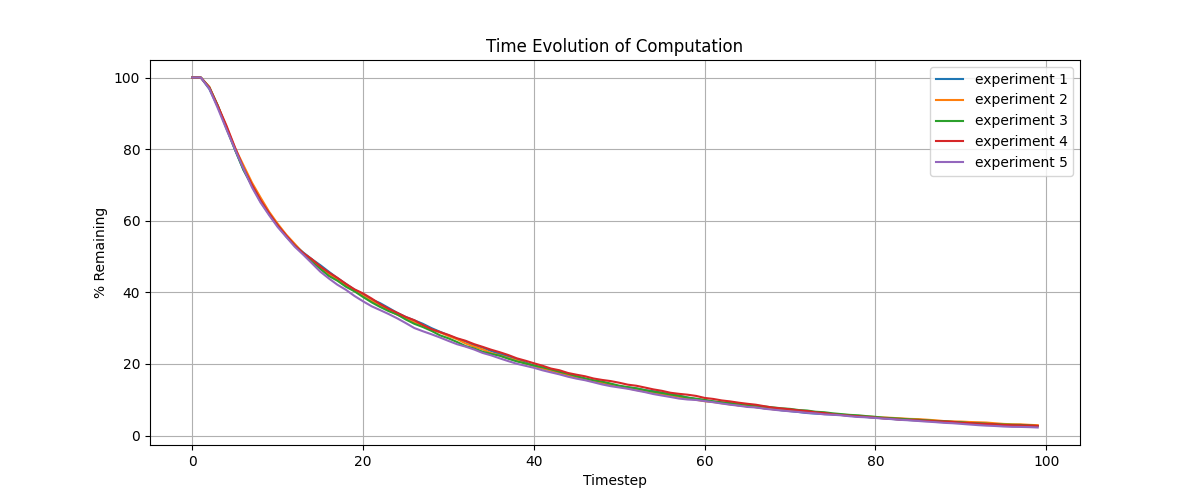
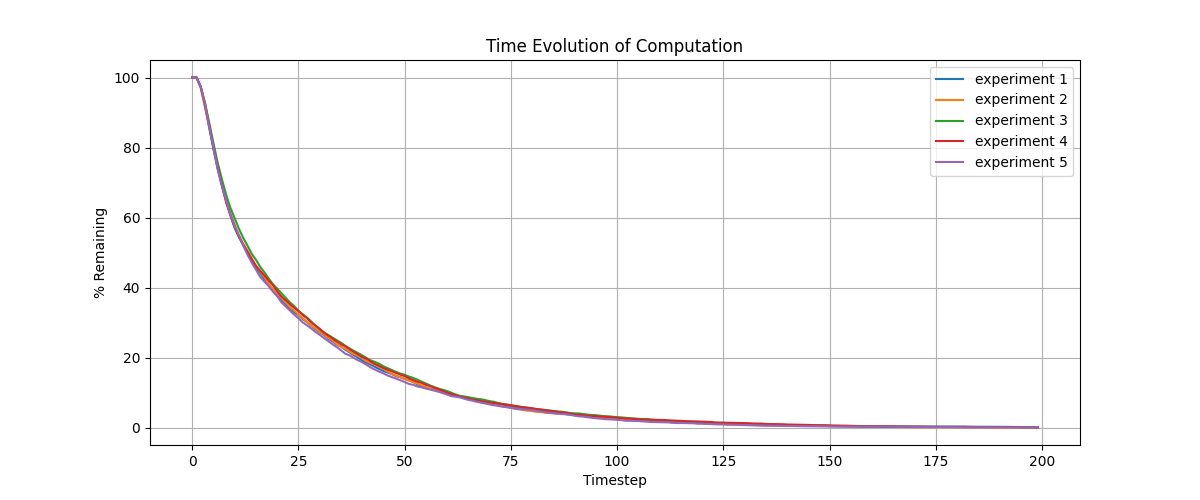
some housekeeping

diff --git a/src/experiments/sdc/bind_replace/__init__.py b/src/experiments/sdc/bind_replace/__init__.py
@@ -61,22 +61,22 @@ class SDCBindReplaceSimulation(Simulation):
                     data["SOLVED"].add(index)
 
 
-def print_results(iters: int, count: int, totals: List[int]) -> None:
+def print_results(iters: int, count: int, data: Dict) -> None:
     print(f"\tResults after {iters} iterations")
     print()
     for i in range(iters):
-        print_result(i, count, totals[i])
+        print(f"\t Iteration: {i + 1}")
+        print_result(count, data["TOTALS"][i])
     print("\n")
 
 
-def print_result(iteration: int, count: int, total: int) -> None:
-    print(f"\t Iteration: {iteration + 1}")
+def print_result(count: int, total: int) -> None:
     print(f"\t     Total: {total}")
     print(f"\tProportion: {(total / count) * 100:.2f}%")
     print()
 
 
-def plot_results(iters: int, total: int, timesteps: int, stats: List[List[int]], field: str, group: str, name: str) -> None:
+def plot_results(iters: int, total: int, timesteps: int, data: Dict, field: str, group: str, name: str) -> None:
     plt.subplots(figsize = (12, 5))
     plt.title("Time Evolution of Computation")
     plt.grid(True)
@@ -84,12 +84,10 @@ def plot_results(iters: int, total: int, timesteps: int, stats: List[List[int]],
     plt.ylabel("% Remaining")
 
     for i in range(iters):
-        y = [((total - count) / total) * 100 for count in stats[i]]
+        y = [((total - count) / total) * 100 for count in data["STATS"][i]]
         x = [timestep for timestep in range(timesteps)]
         plt.plot(x, y, label = f"experiment {i + 1}")
 
     plt.legend()
     plt.savefig(f"./output/experiments/{field}/{group}/{name}/experiment.png")
     plt.close()
-
-

diff --git a/src/experiments/sdc/bind_replace/bitcopy/experiment.py b/src/experiments/sdc/bind_replace/bitcopy/experiment.py
@@ -6,7 +6,7 @@ from experiments.sdc.bind_replace.bitcopy import ANCHOR, TILES, SOLUTION
 
 
 SCAFFOLDS = 5000
-TIMESTEPS = 100
+TIMESTEPS = 200
 
 def main() -> None:
     print("\n")
@@ -16,5 +16,5 @@ def main() -> None:
     iters = int(sys.argv[1]) if len(sys.argv) > 1 else 5
     data  = SDCBindReplaceSimulation(SCAFFOLDS, ANCHOR, TILES, SOLUTION).run(iters, TIMESTEPS)
 
-    print_results(iters, SCAFFOLDS, data["TOTALS"])
-    plot_results(iters, SCAFFOLDS, TIMESTEPS, data["STATS"], "sdc", "bind_replace", "bitcopy")
+    print_results(iters, SCAFFOLDS, data)
+    plot_results(iters, SCAFFOLDS, TIMESTEPS, data, "sdc", "bind_replace", "bitcopy")

diff --git a/src/experiments/sdc/bind_replace/parity/experiment.py b/src/experiments/sdc/bind_replace/parity/experiment.py
@@ -6,7 +6,7 @@ from experiments.sdc.bind_replace.parity import ANCHOR, TILES, SOLUTION
 
 
 SCAFFOLDS = 5000
-TIMESTEPS = 100
+TIMESTEPS = 200
 
 def main() -> None:
     print("\n")
@@ -16,5 +16,5 @@ def main() -> None:
     iters = int(sys.argv[1]) if len(sys.argv) > 1 else 5
     data  = SDCBindReplaceSimulation(SCAFFOLDS, ANCHOR, TILES, SOLUTION).run(iters, TIMESTEPS)
 
-    print_results(iters, SCAFFOLDS, data["TOTALS"])
-    plot_results(iters, SCAFFOLDS, TIMESTEPS, data["STATS"], "sdc", "bind_replace", "parity")
+    print_results(iters, SCAFFOLDS, data)
+    plot_results(iters, SCAFFOLDS, TIMESTEPS, data, "sdc", "bind_replace", "parity")

diff --git a/src/utils/functions.py b/src/utils/functions.py
@@ -1,10 +1,10 @@
 
 from itertools import repeat, starmap
-from typing import List
+from typing import List, Any
 from collections.abc import Callable
 
 
-def repeat_function(function: Callable[[], str], times: int | None = None, *args: List[str]) -> List[str]:
+def repeat_function(function: Callable[..., str], times: int | None = None, *args: Any) -> List[Any]:
     """
 
         repeatedly calls a function that returns a string a specified number of times and returns the result in a list

diff --git a/src/experiments/sdc/bind_replace/README.md b/src/experiments/sdc/bind_replace/README.md
@@ -1,0 +1,61 @@
+# SDC Experiment - Bind / Replace
+
+## Description
+
+This simulation demonstrates solving a problem through SDC:
+
+1. for each scaffold, randomly pick a tile from the solution
+    - place if the tile's position is vacant
+    - replace if mismatches are less than or equal to the existing tile
+    - otherwise continue
+2. continue until experiment concludes
+3. collect completed scaffolds, and count successes
+4. report on the outcome
+
+## Running the Experiment
+
+Ensure that [uv](https://docs.astral.sh/uv/getting-started/installation/) is installed, and then run the following:
+
+```zsh
+
+> uv run exp-sdc-br-bitcopy
+
+```
+
+you should see output similar to the below:
+
+```
+
+    A Simulation of Scaffolded DNA Computer - Bind / Replace: Bitcopy
+
+
+    Results after 5 iterations
+
+     Iteration: 1
+         Total: 4994
+    Proportion: 99.88%
+
+     Iteration: 2
+         Total: 4995
+    Proportion: 99.90%
+
+     Iteration: 3
+         Total: 4999
+    Proportion: 99.98%
+
+     Iteration: 4
+         Total: 4995
+    Proportion: 99.90%
+
+     Iteration: 5
+         Total: 4995
+    Proportion: 99.90%
+
+
+```
+
+## Notes
+
+For further research some or all of the following need to be taken into consideration:
+
+1. The state of the system is dictated by energy / temperature according to the Boltzman distribution
